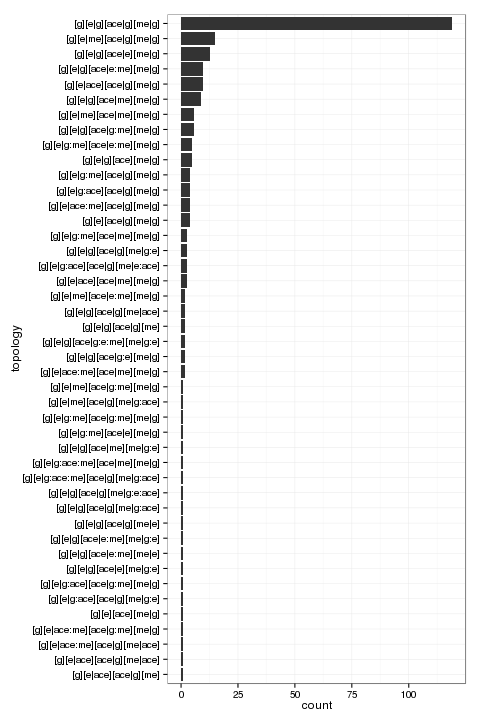
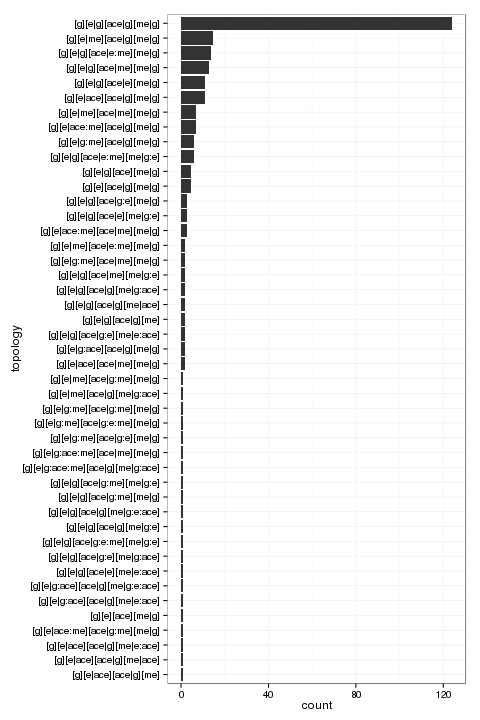
Moved last analysis scripts to makefile

diff --git a/scripts/cgb_qtl.m b/scripts/cgb_qtl.m
@@ -6,12 +6,12 @@ SetUpCGBayesNets;
 %       priorPrecision.sigma2; % prior variance estimate
 %       priorPrecision.alpha; % prior sample size for discrete nodes
 %       priorPrecision.maxParents; % hard-limit on the number of parents
-priorPrecision.nu = 1;
+priorPrecision.nu = 2;
 priorPrecision.sigma2 = 1;
-priorPrecision.alpha = 10; 
+priorPrecision.alpha = 2; 
 priorPrecision.maxParents = 3;
 
-searchParameter.backtracking = true;
+searchParameter.annealing = true;
 searchParameter.nophenotype = true;
 
 % read the data
@@ -30,16 +30,17 @@ cols = [g_idx e_idx a_idx m_idx];
 
 % order by SNP
 snp_idx = find(ismember(header, 'snp'));
-[~, order] = sort(data{snp_idx});
+snps = data{snp_idx};
+
+[snps, order] = sort(snps);
 numdata = cell2mat(data(cols));
 numdata = numdata(order,:);
 
 % find the boundaries of data for each snp
-snps = data{snp_idx};
-snps = snps(order);
 [~,starts,~] = unique(snps);
 [nqtl,~] = size(starts);
 
+starts = sort(starts);
 disc = IsDiscrete(numdata);
 
 % get the model string for each network
@@ -53,7 +54,7 @@ for i = 1:nqtl
     else
         bnData = numdata(starts(i):nrow,:);
     end
-    net = FullBNLearn(bnData, cols, 'foo', 0, 'foo', priorPrecision, disc, false, searchParameter);
+    net = FullBNLearn(bnData, cols, 'g', 0, 'g', priorPrecision, disc, false, searchParameter);
     str = '';
     for i = 1:4
         str = strcat(str, '[', cols(i));
@@ -77,13 +78,10 @@ topos = sort(topos);
 [ntopos,~] = size(topos);
 [topos, idx] = unique(topos);
 counts = diff([idx; ntopos+1]);
-[counts, order] = sort(counts);
+[~, order] = sort(counts);
 
 topos = topos(fliplr(order));
 counts = counts(fliplr(order));
-
-topos = topos(order);
-counts = counts(order);
 
 [ntopos,~] = size(topos);
 
